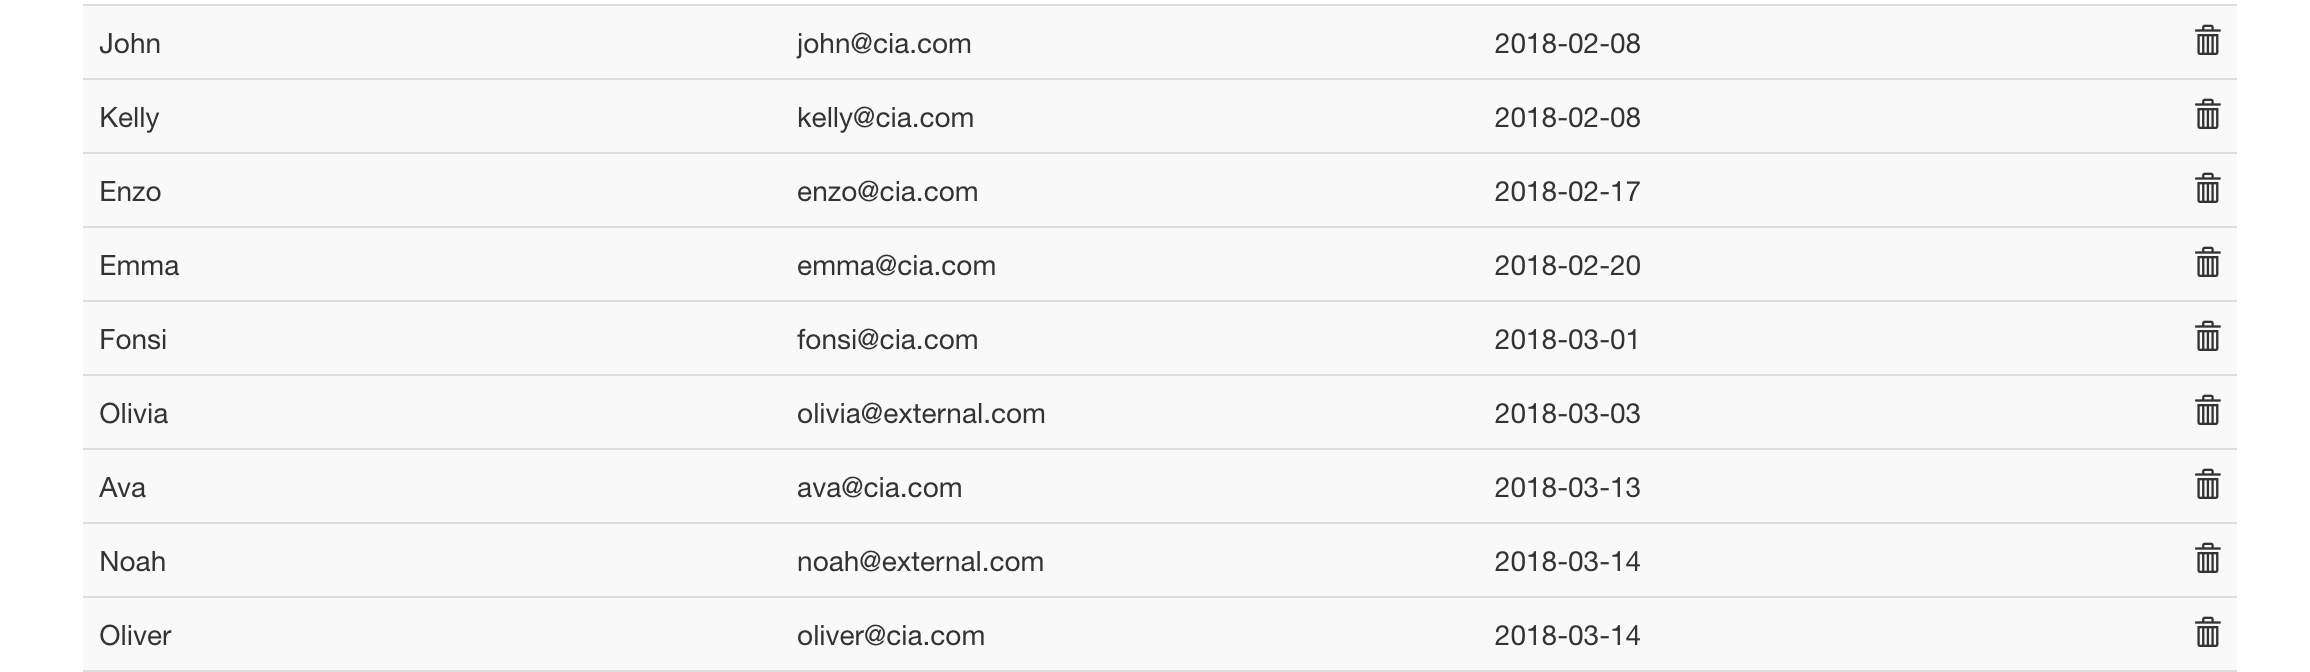
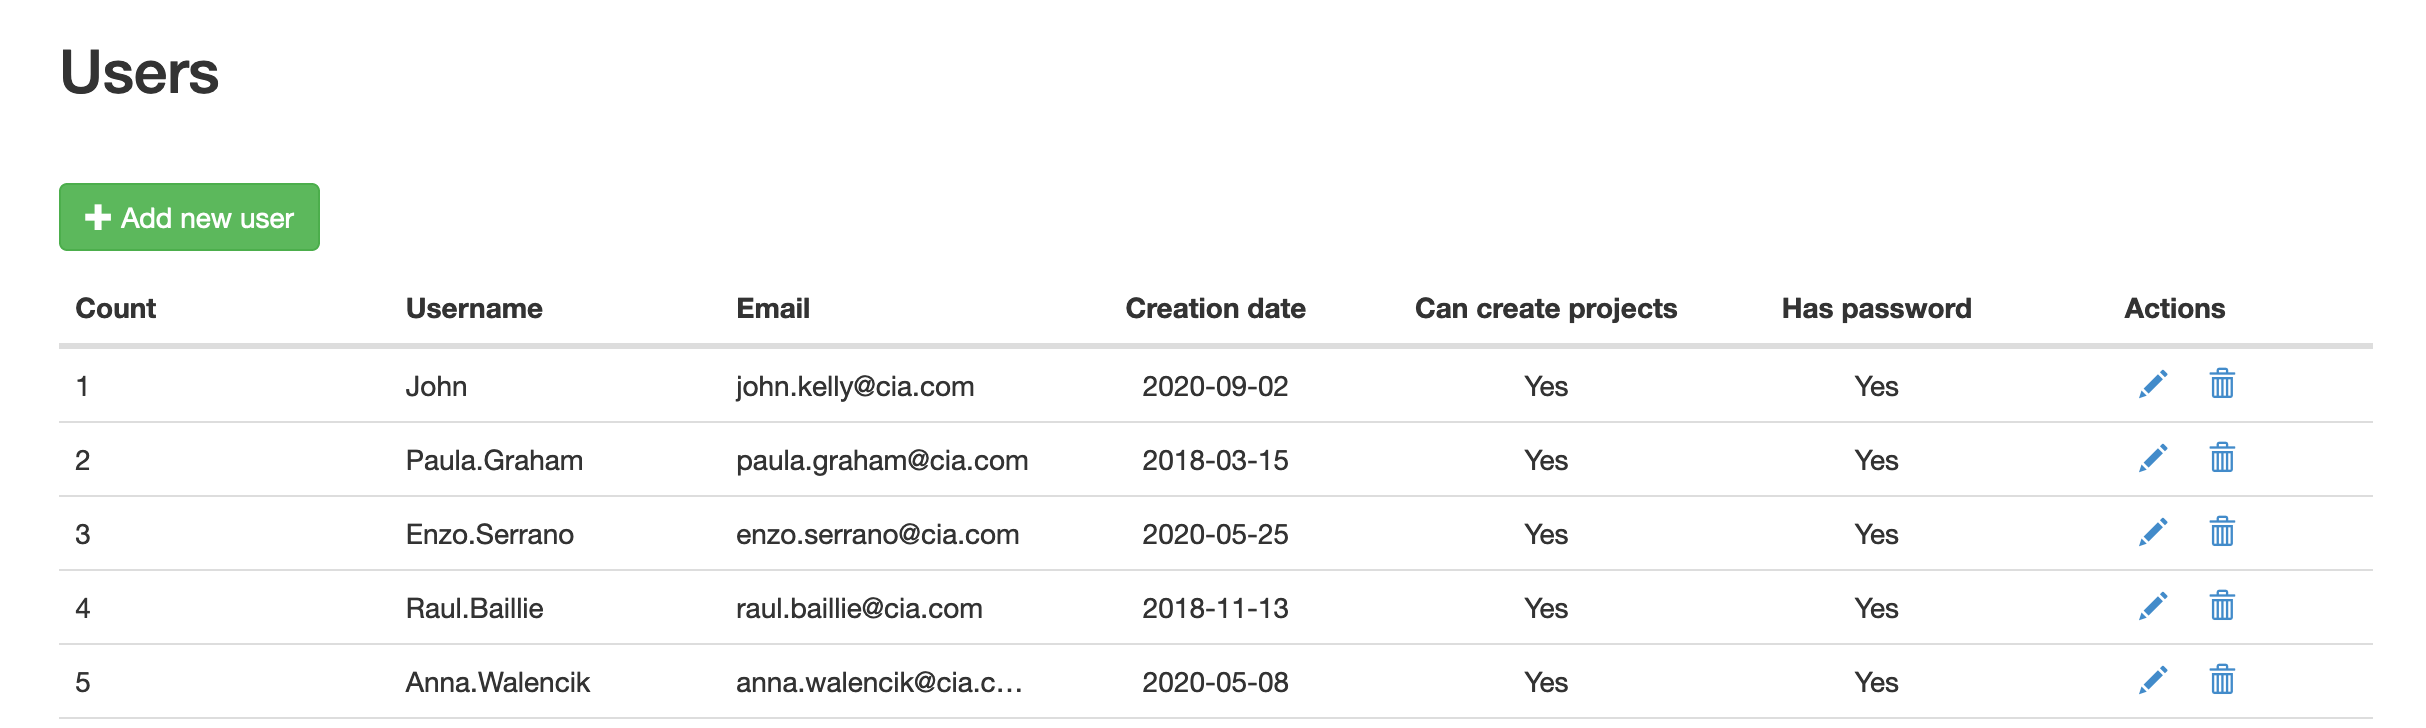
1807 - update docs with sysadmin user panel doc

diff --git a/on-premises-sysadmin.md b/on-premises-sysadmin.md
@@ -21,7 +21,7 @@ Accessible only in tagtog OnPremises, the <strong>SysAdmin page</strong> lets yo
   <h2>How to access</h2>
   <p>Go to your root domain set for tagtog (either an IP or a custom domain) and access the <code>/-sysadmin</code> relative path; for example: <code>{{page.onpremises_sample_domain}}/-sysadmin</code>. You will be prompted with a basic authentication panel, to enter the fields:</p>
   <p class="list-item"><span class="list-item-1"></span><strong>Username</strong>: use the subscription license name</p>
-  <p class="list-item"><span class="list-item-2"></span><strong>Password</strong>: use the subscription license key</p>  
+  <p class="list-item"><span class="list-item-2"></span><strong>Password</strong>: use the subscription license key</p>
 </div>
 
 <div class="one-third-col">
@@ -30,15 +30,43 @@ Accessible only in tagtog OnPremises, the <strong>SysAdmin page</strong> lets yo
   </div>
 </div>
 
-<div class="two-third-col">  
+<div class="two-third-col">
   <h2>User Management</h2>
-  <p>The admin panel displays a list of the users registered in the instance. You can:</p>
-  <p class="list-item" markdown="1"><span class="list-item-1"></span>**Create new accounts**: generate a registration link to share with others or to use oneself</p>
-  <p class="list-item" markdown="1"><span class="list-item-2"></span>**Edit accounts**: edit the users' accounts main information, namely, username, email, and password. 📝</p>
+  <h3>User panel</h3>
+  <p>The user panel displays a list of the users registered in the instance. You can:</p>
+  <p class="list-item" markdown="1"><span class="list-item-1"></span>**Create new accounts**: you can add a user account directly in the sysadmin panel.</p>
+  <p class="list-item" markdown="1"><span class="list-item-2"></span>**Edit accounts**: edit the users' accounts main information. Edit a user from the system by clicking on the edit button {% include inline-image.html name="edit_pencil.png" width="20" %}</p>
   <p class="list-item" markdown="1"><span class="list-item-3"></span>**Remove accounts**: remove users that for example do not use anymore the application. Remove a user from the system by clicking on the remove button {% include inline-image.html name="editor-doc-remove.PNG" %}.</p>
-  <p class="list-item" markdown="1"><span class="list-item-4"></span>**Revoke all auth tokens**: remove all existing token-based logins and registration links</p>
 
-  {% include image.html name="sysadmin-onpremises-users.png" caption="Username, email address, and registration date." %}
+  <p>Fields in the table</p>
+  <p class="list-item" markdown="1"><span class="list-item-1"></span>**Count**: index of the user.</p>
+  <p class="list-item" markdown="1"><span class="list-item-2"></span>**Username**</p>
+  <p class="list-item" markdown="1"><span class="list-item-3"></span>**Email**</p>
+  <p class="list-item" markdown="1"><span class="list-item-4"></span>**Creation date**: date the user account was created.</p>
+  <p class="list-item" markdown="1"><span class="list-item-5"></span>**Can create projects**: flag to indicate whether the user can create projects or not.</p>
+  <p class="list-item" markdown="1"><span class="list-item-6"></span>**Has password**: accounts with `Basic authentication` have password. `Single sign-on` accounts don't have password within the application.</p>
+
+  {% include image.html name="sysadmin-onpremises-users.png" caption="User panel" %}
+</div>
+<div class="one-third-col">
+  {% include image.html name="sysadmin-onpremises-user-update.png" caption="Edit user view" width="90%" %}
+</div>
+<div class="two-third-col">
+  <h3>Create a new user</h3>
+  <p markdown="1">To create a new user using the sysadmin user panel, click on **+ Add new user**. A form will show up with the following fields:</p>
+  <p class="list-item" markdown="1"><span class="list-item-1"></span>**Account type**: `Basic authentication` (regular tagtog account with username and password) or `Single sign-on` ([documentation](on-premises-sysadmin.html#single-sign-on-sso)). <br/> In the user panel, accounts with `Basic authentication` with the flag `Has Password`   </p>
+  <p class="list-item" markdown="1"><span class="list-item-2"></span>**Username**: the username of the new user.</p>
+  <p class="list-item" markdown="1"><span class="list-item-3"></span>**Email**: the email of the new user.</p>
+  <p class="list-item" markdown="1"><span class="list-item-4"></span>**Password**: the password of the new user. The user can later change the password. This field is only required for accounts with `Basic authentication`.</p>
+  <p class="list-item" markdown="1"><span class="list-item-5"></span>**Can create projects**: a flag to indicate whether the new user can create tagtog projects or not. Users who cannot create projects, can only work in projects they are invited to.</p>
+</div>
+<div class="two-third-col">
+  <h3>Create a new user by registration link</h3>
+  <p markdown="1">You can generate a registration link to share with others or to use oneself. Anyone who has this link and access to the system, can create a regular user account signing up in the application.</p>
+</div>
+<div class="two-third-col">
+  <h3>Revoke auth tokens</h3>
+  <p markdown="1">Remove all existing token-based logins and registration links. If you think your system's security might have been compromised, you can revoke all auth tokens thus invalidating old token-based logins and registration invitations.</p>
 </div>
 <div class="two-third-col">
   <h2>Roles and permissions</h2>
@@ -298,7 +326,7 @@ Set `application.canUsersRequestForgotPassword` to `false` (the default is _true
 
 ```shell
 export TAGTOG_JAVA_OPTS="${TAGTOG_JAVA_OPTS} -Dapplication.canUsersRequestForgotPassword=false";
-./tagtog_on_premises restart latest $TAGTOG_HOME    
+./tagtog_on_premises restart latest $TAGTOG_HOME
 ```
 
 </div> <!-- Ends markdown -->
